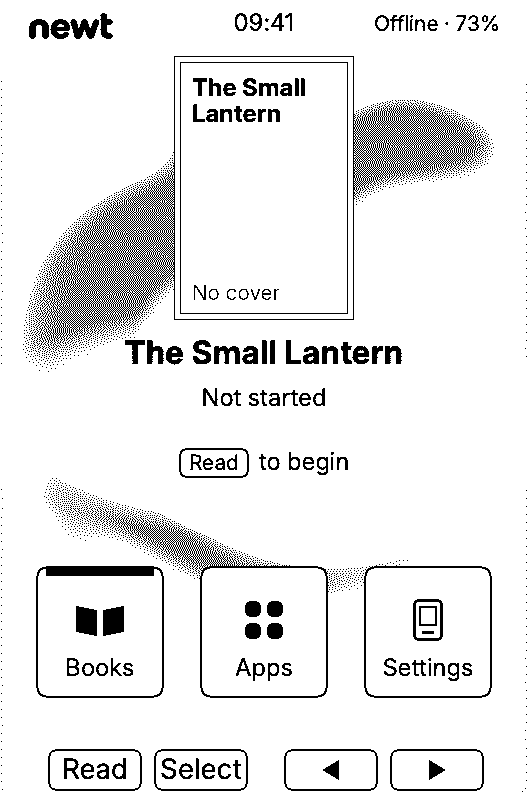
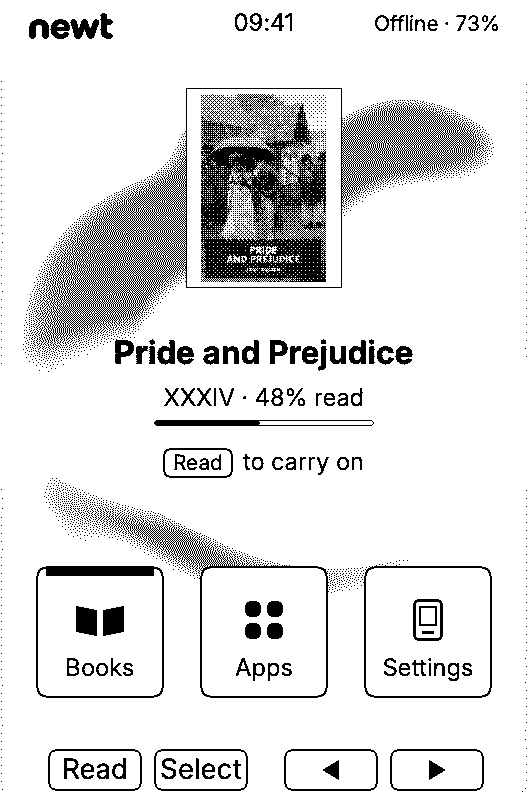
docs(readme): show real covers and a public-domain book (NEWT-105, #6)
Re-render the README screens with four Standard Ebooks editions (public
domain, CC0) on the preview card: Home with Pride and Prejudice in
progress, the Books grid with covers, a page of Chapter I, and Settings.

Changed region(s): [[0.3333, 0.0909, 0.6667, 0.3939], [0.2121, 0.4242, 0.7879, 0.6061]]

diff --git a/tests/repo_docs_allowlist_test.py b/tests/repo_docs_allowlist_test.py
@@ -16,7 +16,7 @@ DOCS = frozenset((
     "UPDATES.md", "bench-flash.md", "dev-usb-bridge.md", "provenance.md", "reading-acceptance.md",
     "software-proof-shadow.md", "toolchain-proposal.md",
     "newt-wordmark-dark.png", "newt-wordmark-light.png",
-    "screen-home.png", "screen-reader.png", "screen-settings.png",
+    "screen-books.png", "screen-home.png", "screen-reader.png", "screen-settings.png",
     "reading-latency-contract.json", "reading-latency-policy.json",
     "toolchain-linux-lock.json", "toolchain-lock.json", "toolchain-python-linux.lock", "toolchain-python.lock",
 ))

diff --git a/README.md b/README.md
@@ -15,12 +15,13 @@ Newt is early alpha software. Expect rough edges, and please
 [report what you find](https://github.com/VargasDevelopment/newt/issues).
 
 <p align="center">
-  <img src="docs/screen-home.png" alt="Home: the book you are reading, with Books, Apps and Settings" width="264">
-  <img src="docs/screen-reader.png" alt="A page of a book in the reader" width="264">
-  <img src="docs/screen-settings.png" alt="Settings" width="264">
+  <img src="docs/screen-home.png" alt="Home: Pride and Prejudice, 48% read, with Books, Apps and Settings" width="200">
+  <img src="docs/screen-books.png" alt="Books: four public-domain books with their covers" width="200">
+  <img src="docs/screen-reader.png" alt="A page of Pride and Prejudice in the reader" width="200">
+  <img src="docs/screen-settings.png" alt="Settings" width="200">
 </p>
 
-<p align="center"><sub>Home, the reader and Settings, rendered from the real firmware by the host preview.</sub></p>
+<p align="center"><sub>Home, Books, the reader and Settings, rendered from the real firmware by the host preview. Books are public-domain <a href="https://standardebooks.org">Standard Ebooks</a> editions.</sub></p>
 
 ## What works today
 
